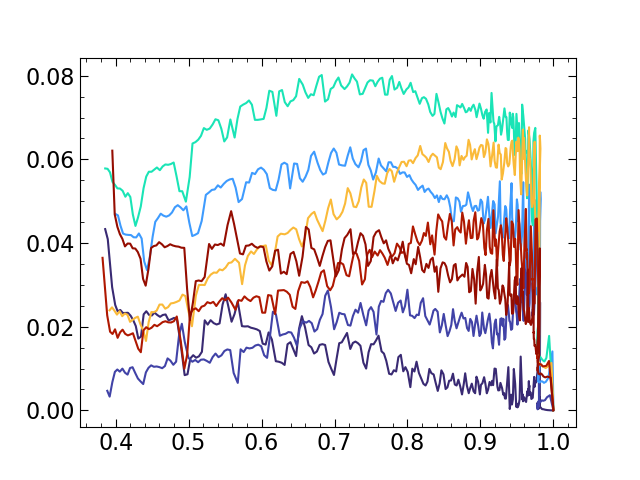
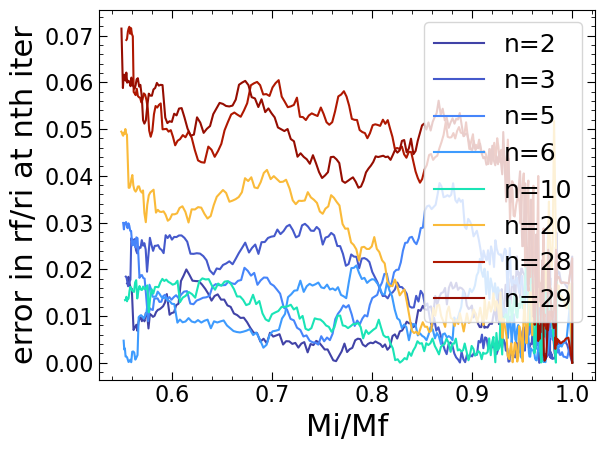
replot converge issue and misc update

Changed region(s): [[0.0, 0.0619, 0.9834, 0.9602], [0.9834, 0.031, 1.0, 0.8363]]

diff --git a/collapse-model/self-sim_gas+dm.py b/collapse-model/self-sim_gas+dm.py
@@ -383,7 +383,7 @@ for i in range(5):
     fig8, ax8 = plt.subplots(1)
     # MiMf_min, rfri_min = np.logspace(-2.3,-0.005,300)*0
 
-    plot_iters = [0,1,2,6,10,20,28,29] #1,2,3,5,6,7]
+    plot_iters = [0,1,2,3,5,6,10,20,28,29] #1,2,3,5,6,7]
 
     t_bef, t_now = t_now, time()
     print(f'{t_now-t_bef:.4g}s', 'Initialised plots and figs for iteration')
@@ -476,8 +476,9 @@ for i in range(5):
             MiMf = ( fd* (Mbr/ Mdr + 1) )**-1
             rfri = rf / ri
 
-            MiMf_err, rfri_err = np.abs(MiMf-MiMf_prev), np.abs(rfri-rfri_prev)
-            ax8.plot(MiMf, rfri_err, color=color_this)
+            if n>=2:
+                MiMf_err, rfri_err = np.abs(MiMf-MiMf_prev), np.abs(rfri-rfri_prev)
+                ax8.plot(MiMf, rfri_err, color=color_this, label=f'n={n}')
 
             if n==29: ax72.errorbar(MiMf,rfri, xerr=MiMf_err, yerr=rfri_err)
             
@@ -552,6 +553,11 @@ for i in range(5):
     ax6.set_xlabel(r'$\xi$')
     ax6.set_ylabel(r'$\lambda$')
     ax6.legend(loc='upper right')
+
+    ax8.legend(loc='upper right')
+    ax8.set_xlabel('Mi/Mf')
+    ax8.set_ylabel('error in rf/ri at nth iter')
+    # fig8.savefig('relx_reln_converge_issue.png', bbox_inches='tight')
 
 # fig5.savefig(f'Eds-gas-{gam:.02f}_profiles.pdf')
 # fig5.savefig(f'Eds-gas-{gam:.02f}_trajectory.pdf')
